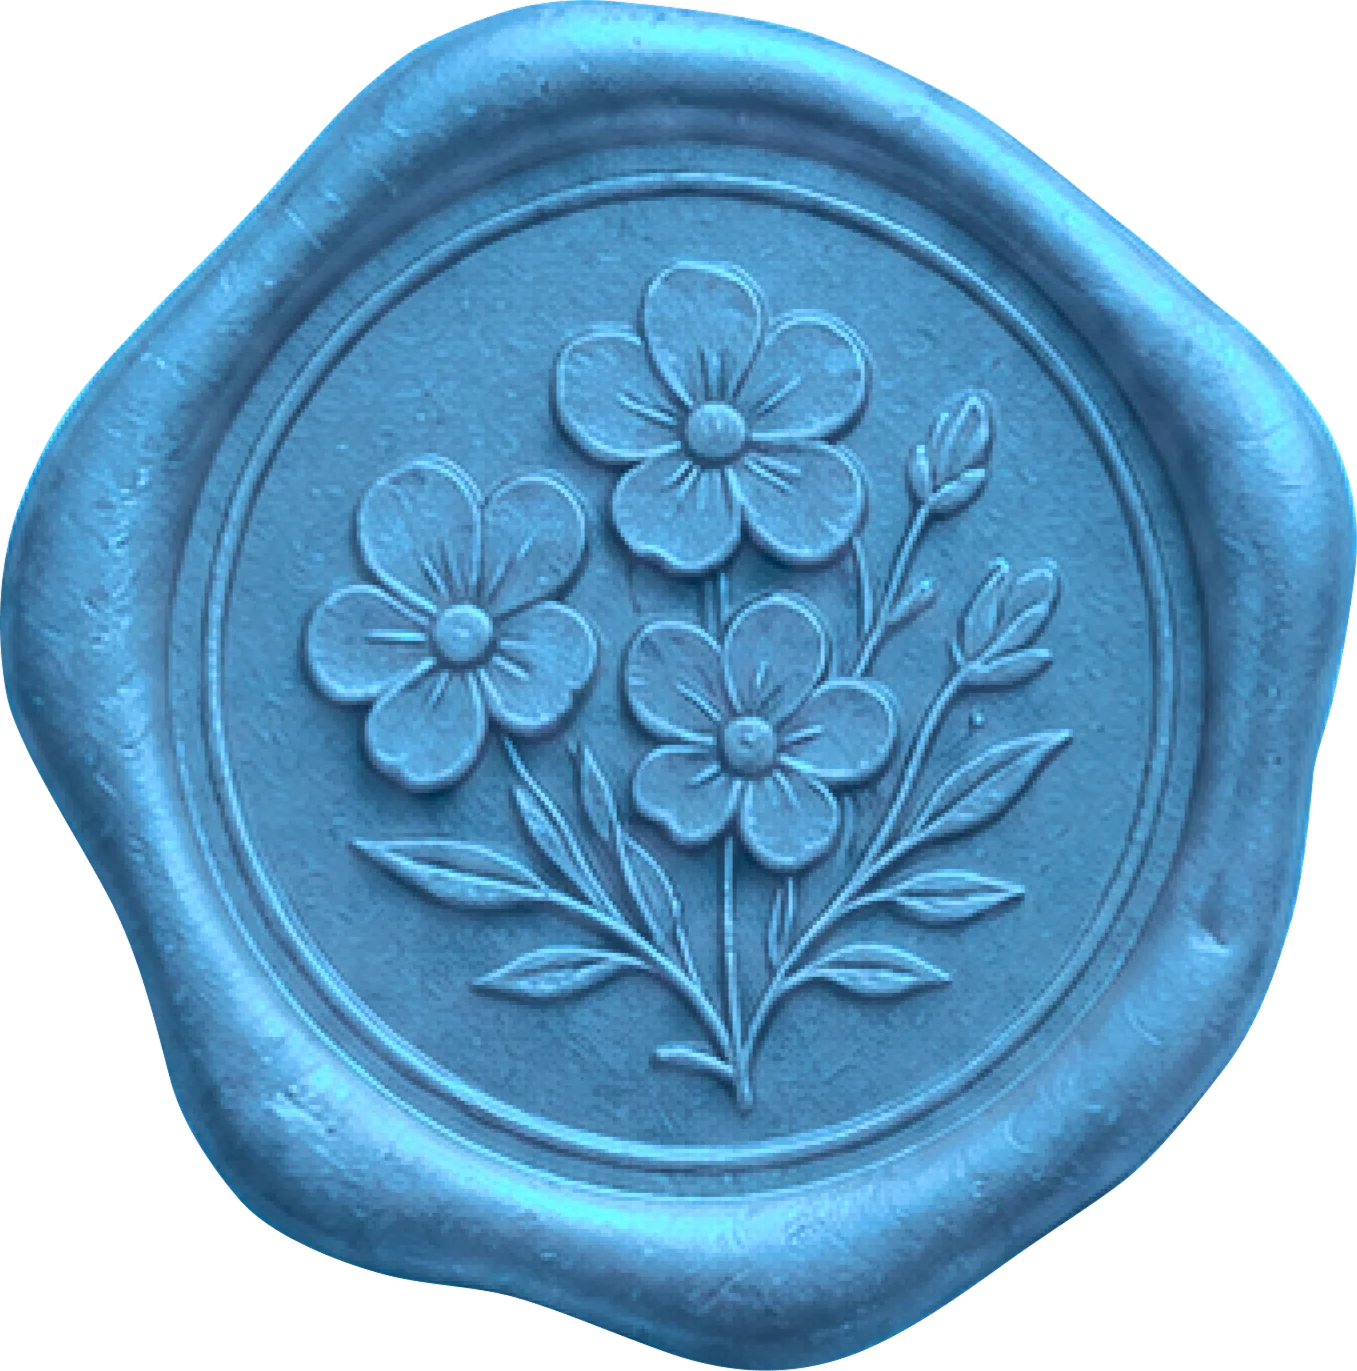
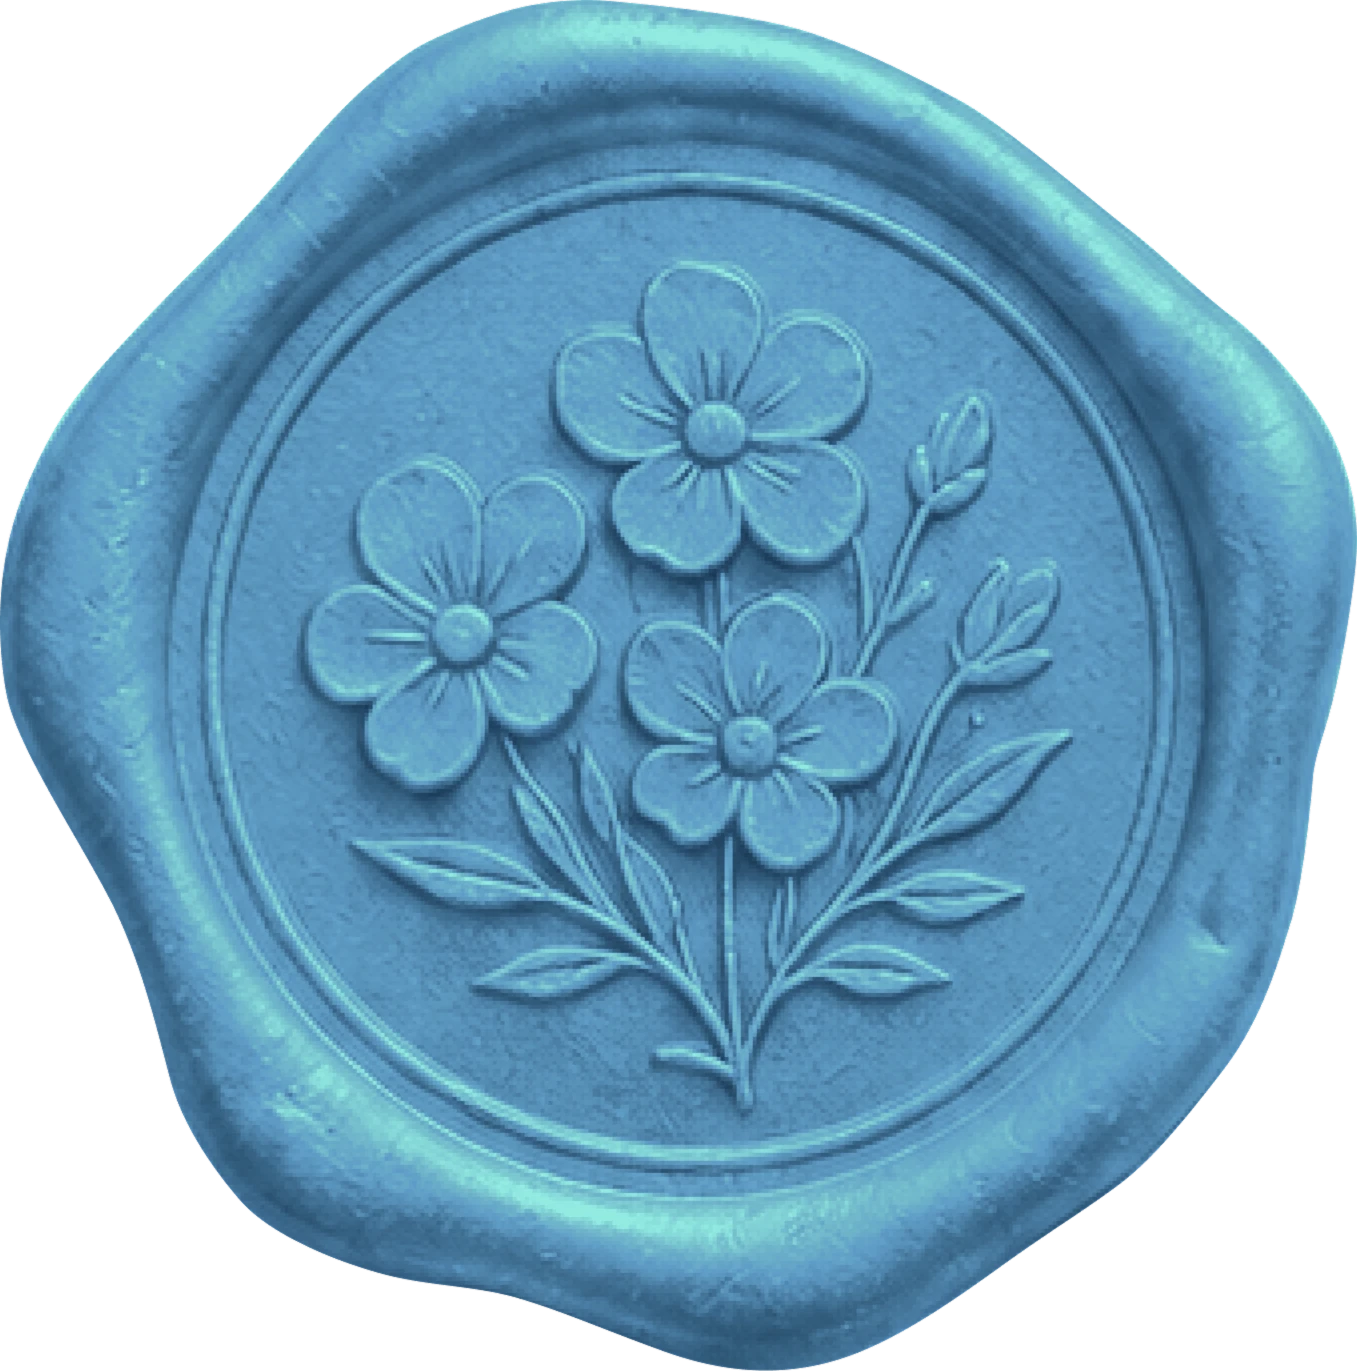
Add password show/hide toggle, update blue seal/envelope art, shorten auth-modal copy
- New shared PasswordInput component (click-to-toggle eye icon) used on
  login, signup, and the /create flow's AuthModal - also incidentally
  fixes AuthModal's password field missing bg-white, an existing
  inconsistency with the other two.
- Updated 晨霧灰藍 (blue) theme's wax-seal (all 4 flower designs) and
  envelope art from newer source files, converted to WebP.
- Trimmed the AuthModal's "your edits are saved" copy.

diff --git a/components/ui/PasswordInput.tsx b/components/ui/PasswordInput.tsx
@@ -1,0 +1,68 @@
+"use client";
+
+import { useState } from "react";
+
+function EyeIcon({ className }: { className?: string }) {
+  return (
+    <svg viewBox="0 0 24 24" fill="none" stroke="currentColor" strokeWidth="1.5" className={className} aria-hidden="true">
+      <path strokeLinecap="round" strokeLinejoin="round" d="M2.5 12S6 5.5 12 5.5 21.5 12 21.5 12 18 18.5 12 18.5 2.5 12 2.5 12Z" />
+      <circle cx="12" cy="12" r="3" strokeLinecap="round" strokeLinejoin="round" />
+    </svg>
+  );
+}
+
+function EyeOffIcon({ className }: { className?: string }) {
+  return (
+    <svg viewBox="0 0 24 24" fill="none" stroke="currentColor" strokeWidth="1.5" className={className} aria-hidden="true">
+      <path
+        strokeLinecap="round"
+        strokeLinejoin="round"
+        d="M9.9 4.7A10.4 10.4 0 0 1 12 4.5c6 0 9.5 7.5 9.5 7.5a15 15 0 0 1-2.9 3.9M6.6 6.6C4 8.3 2.5 12 2.5 12s3.5 7.5 9.5 7.5a9 9 0 0 0 4.4-1.2"
+      />
+      <path strokeLinecap="round" strokeLinejoin="round" d="M9.9 14.1a3 3 0 0 0 4.2-4.2" />
+      <path strokeLinecap="round" strokeLinejoin="round" d="M3 3l18 18" />
+    </svg>
+  );
+}
+
+/** Password input with a click-to-toggle show/hide eye button. Fixed
+ * styling (not a className prop) so login/signup/AuthModal's password
+ * fields all look identical - AuthModal's was missing bg-white before this
+ * existed, an inconsistency this incidentally fixes. */
+export function PasswordInput({
+  name,
+  required,
+  minLength,
+  value,
+  onChange,
+}: {
+  name?: string;
+  required?: boolean;
+  minLength?: number;
+  value?: string;
+  onChange?: (e: React.ChangeEvent<HTMLInputElement>) => void;
+}) {
+  const [visible, setVisible] = useState(false);
+
+  return (
+    <div className="relative">
+      <input
+        type={visible ? "text" : "password"}
+        name={name}
+        required={required}
+        minLength={minLength}
+        value={value}
+        onChange={onChange}
+        className="w-full rounded border border-[var(--brand-line)] bg-white py-2 pl-3 pr-10 text-foreground"
+      />
+      <button
+        type="button"
+        onClick={() => setVisible((v) => !v)}
+        aria-label={visible ? "隱藏密碼" : "顯示密碼"}
+        className="absolute right-2.5 top-1/2 -translate-y-1/2 text-[var(--brand-ink-soft)] hover:text-[var(--brand-gold)]"
+      >
+        {visible ? <EyeOffIcon className="h-4 w-4" /> : <EyeIcon className="h-4 w-4" />}
+      </button>
+    </div>
+  );
+}

diff --git a/components/create/AuthModal.tsx b/components/create/AuthModal.tsx
@@ -5,6 +5,7 @@ import { createClient } from "@/lib/supabase/client";
 import { GoogleAuthButton } from "@/components/auth/GoogleAuthButton";
 import { translateAuthError } from "@/lib/authErrors";
 import { useToast } from "@/components/ui/Toast";
+import { PasswordInput } from "@/components/ui/PasswordInput";
 import type { User } from "@supabase/supabase-js";
 
 export function AuthModal({
@@ -67,7 +68,7 @@ export function AuthModal({
           </button>
         </div>
         <p className="mb-4 text-sm text-[var(--brand-ink-soft)]">
-          你剛剛編輯的內容會在{mode === "signup" ? "建立帳號" : "登入"}後自動儲存，不會遺失。
+          編輯的內容會在{mode === "signup" ? "建立帳號" : "登入"}後自動儲存，不會遺失。
         </p>
 
         {/* Google is a full-page redirect (Google -> /auth/callback ->
@@ -107,14 +108,7 @@ export function AuthModal({
           </label>
           <label className="flex flex-col gap-1 text-sm text-[var(--brand-ink-soft)]">
             密碼
-            <input
-              type="password"
-              required
-              minLength={6}
-              value={password}
-              onChange={(e) => setPassword(e.target.value)}
-              className="rounded border border-[var(--brand-line)] px-3 py-2 text-foreground"
-            />
+            <PasswordInput required minLength={6} value={password} onChange={(e) => setPassword(e.target.value)} />
           </label>
 
           <button

diff --git a/app/login/page.tsx b/app/login/page.tsx
@@ -6,6 +6,7 @@ import Link from "next/link";
 import { signIn } from "@/lib/actions/auth";
 import { GoogleAuthButton } from "@/components/auth/GoogleAuthButton";
 import { useToast, useActionErrorToast } from "@/components/ui/Toast";
+import { PasswordInput } from "@/components/ui/PasswordInput";
 import { headingFont } from "@/lib/fonts";
 
 // Reads the `?error=oauth` param /auth/callback redirects here with on
@@ -57,13 +58,7 @@ export default function LoginPage() {
           </label>
           <label className="flex flex-col gap-1 text-sm text-[var(--brand-ink-soft)]">
             密碼
-            <input
-              type="password"
-              name="password"
-              required
-              minLength={6}
-              className="rounded border border-[var(--brand-line)] bg-white px-3 py-2 text-foreground"
-            />
+            <PasswordInput name="password" required minLength={6} />
           </label>
 
           <button

diff --git a/app/signup/page.tsx b/app/signup/page.tsx
@@ -5,6 +5,7 @@ import Link from "next/link";
 import { signUp } from "@/lib/actions/auth";
 import { GoogleAuthButton } from "@/components/auth/GoogleAuthButton";
 import { useActionErrorToast } from "@/components/ui/Toast";
+import { PasswordInput } from "@/components/ui/PasswordInput";
 import { headingFont } from "@/lib/fonts";
 
 export default function SignupPage() {
@@ -47,13 +48,7 @@ export default function SignupPage() {
           </label>
           <label className="flex flex-col gap-1 text-sm text-[var(--brand-ink-soft)]">
             密碼
-            <input
-              type="password"
-              name="password"
-              required
-              minLength={6}
-              className="rounded border border-[var(--brand-line)] bg-white px-3 py-2 text-foreground"
-            />
+            <PasswordInput name="password" required minLength={6} />
           </label>
 
           <button
